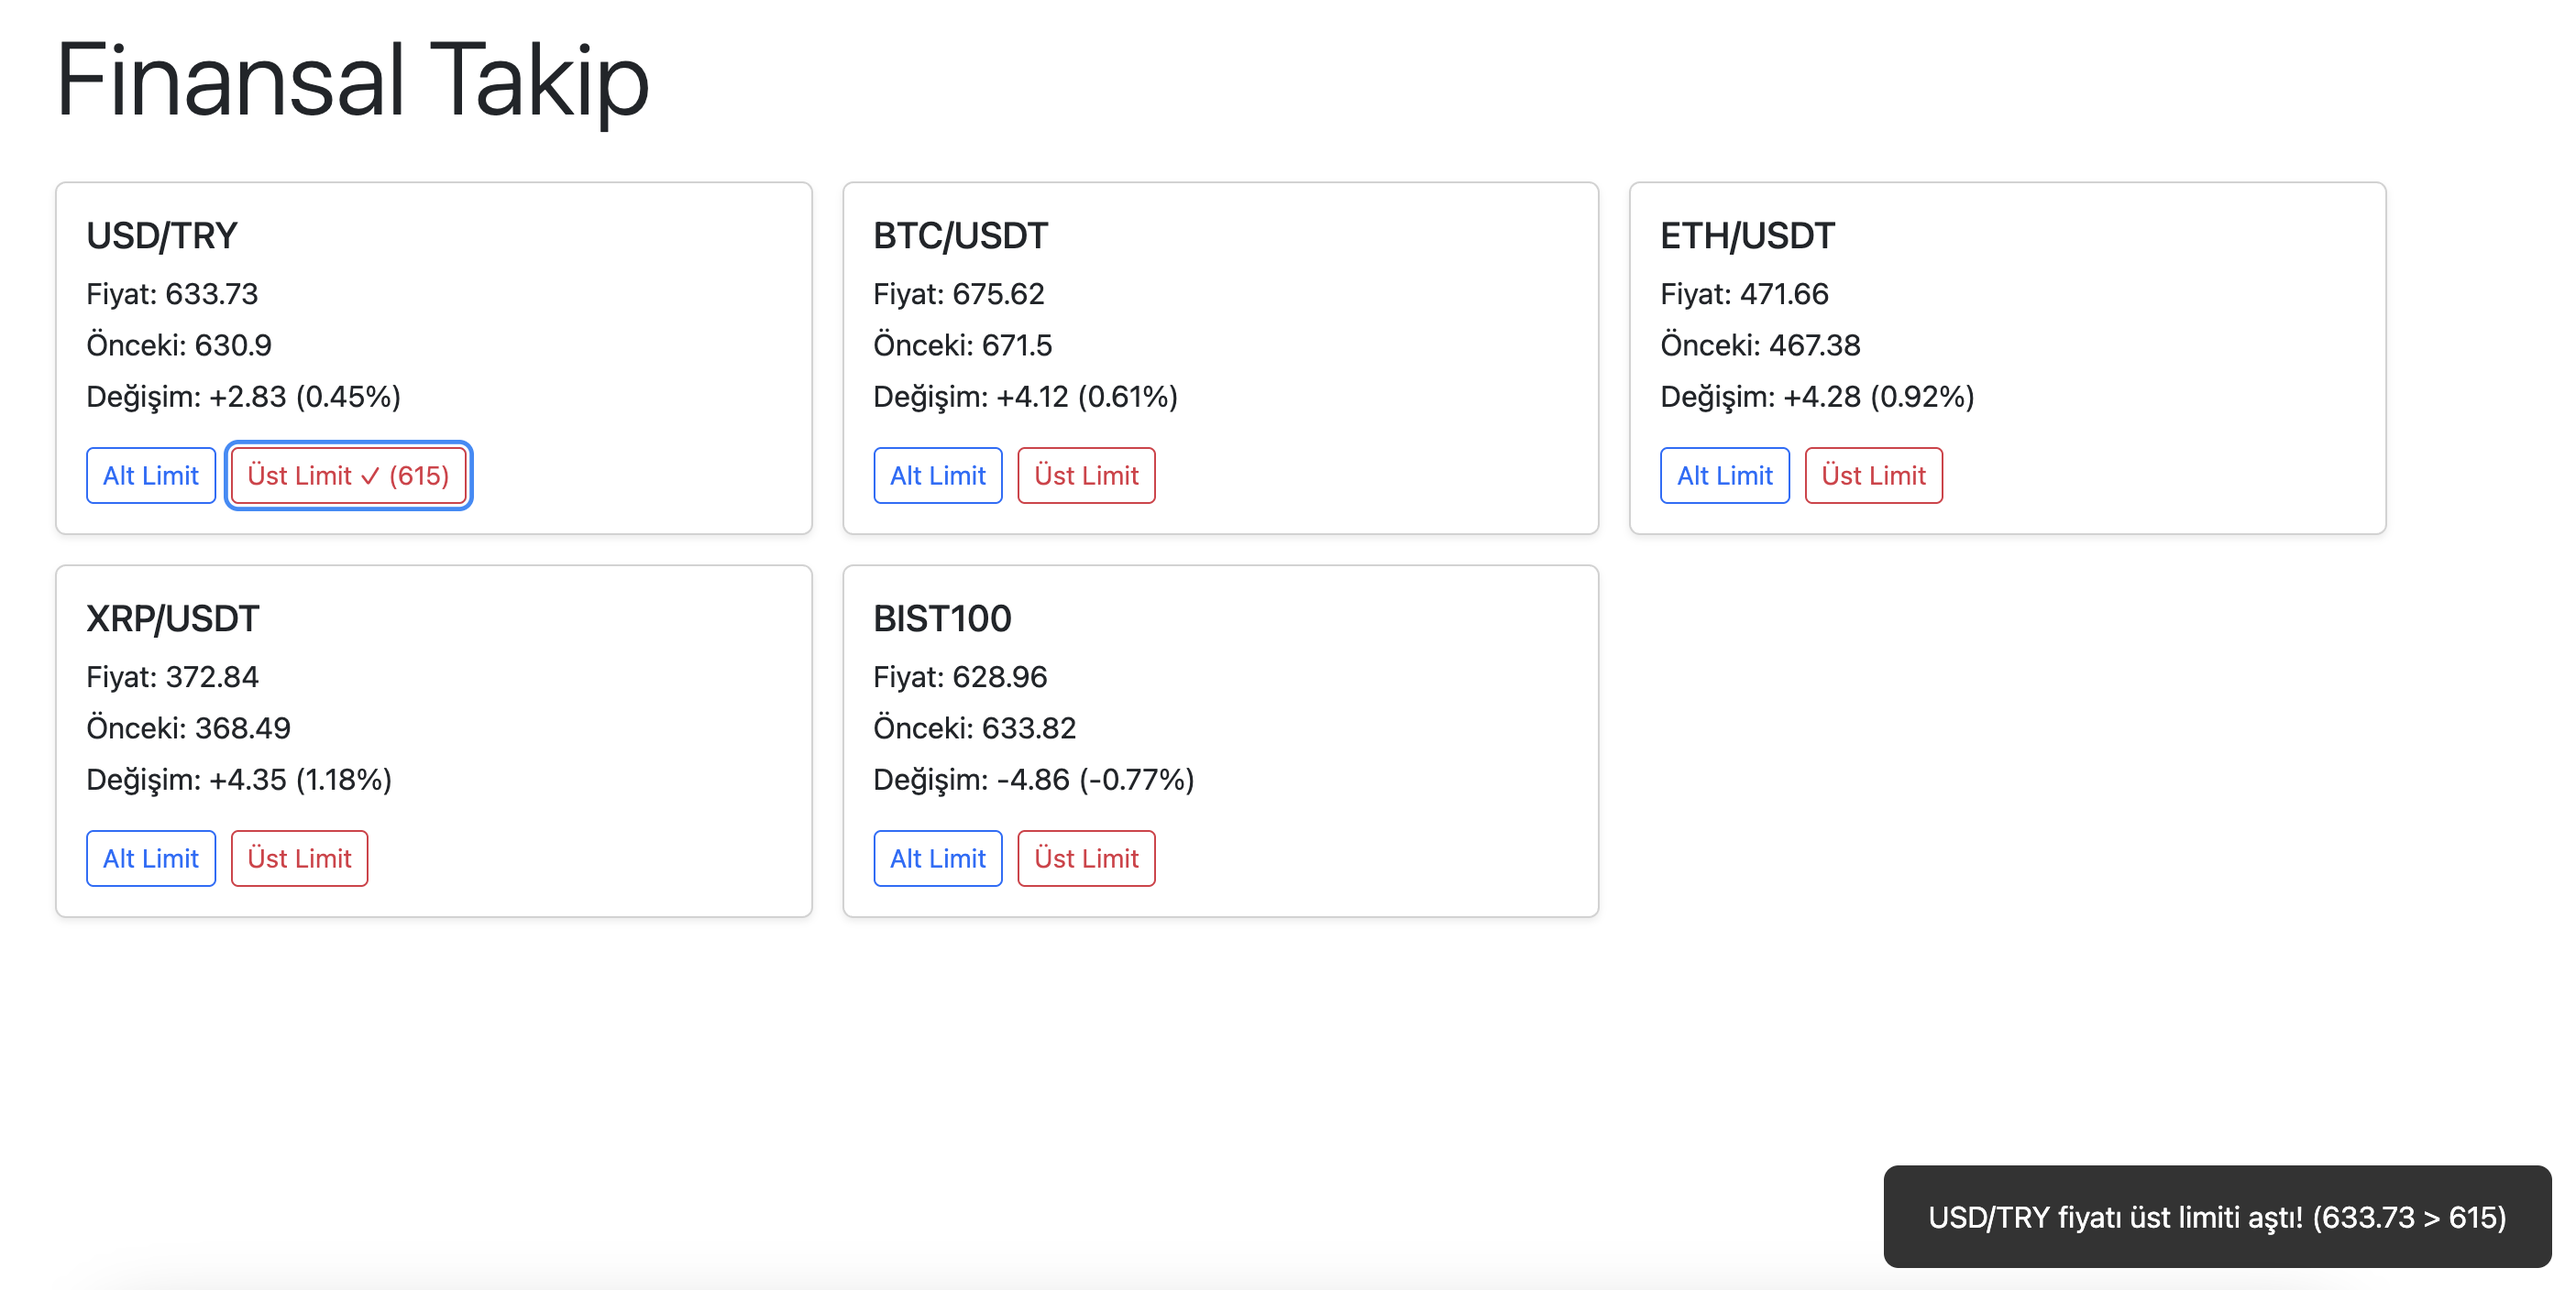
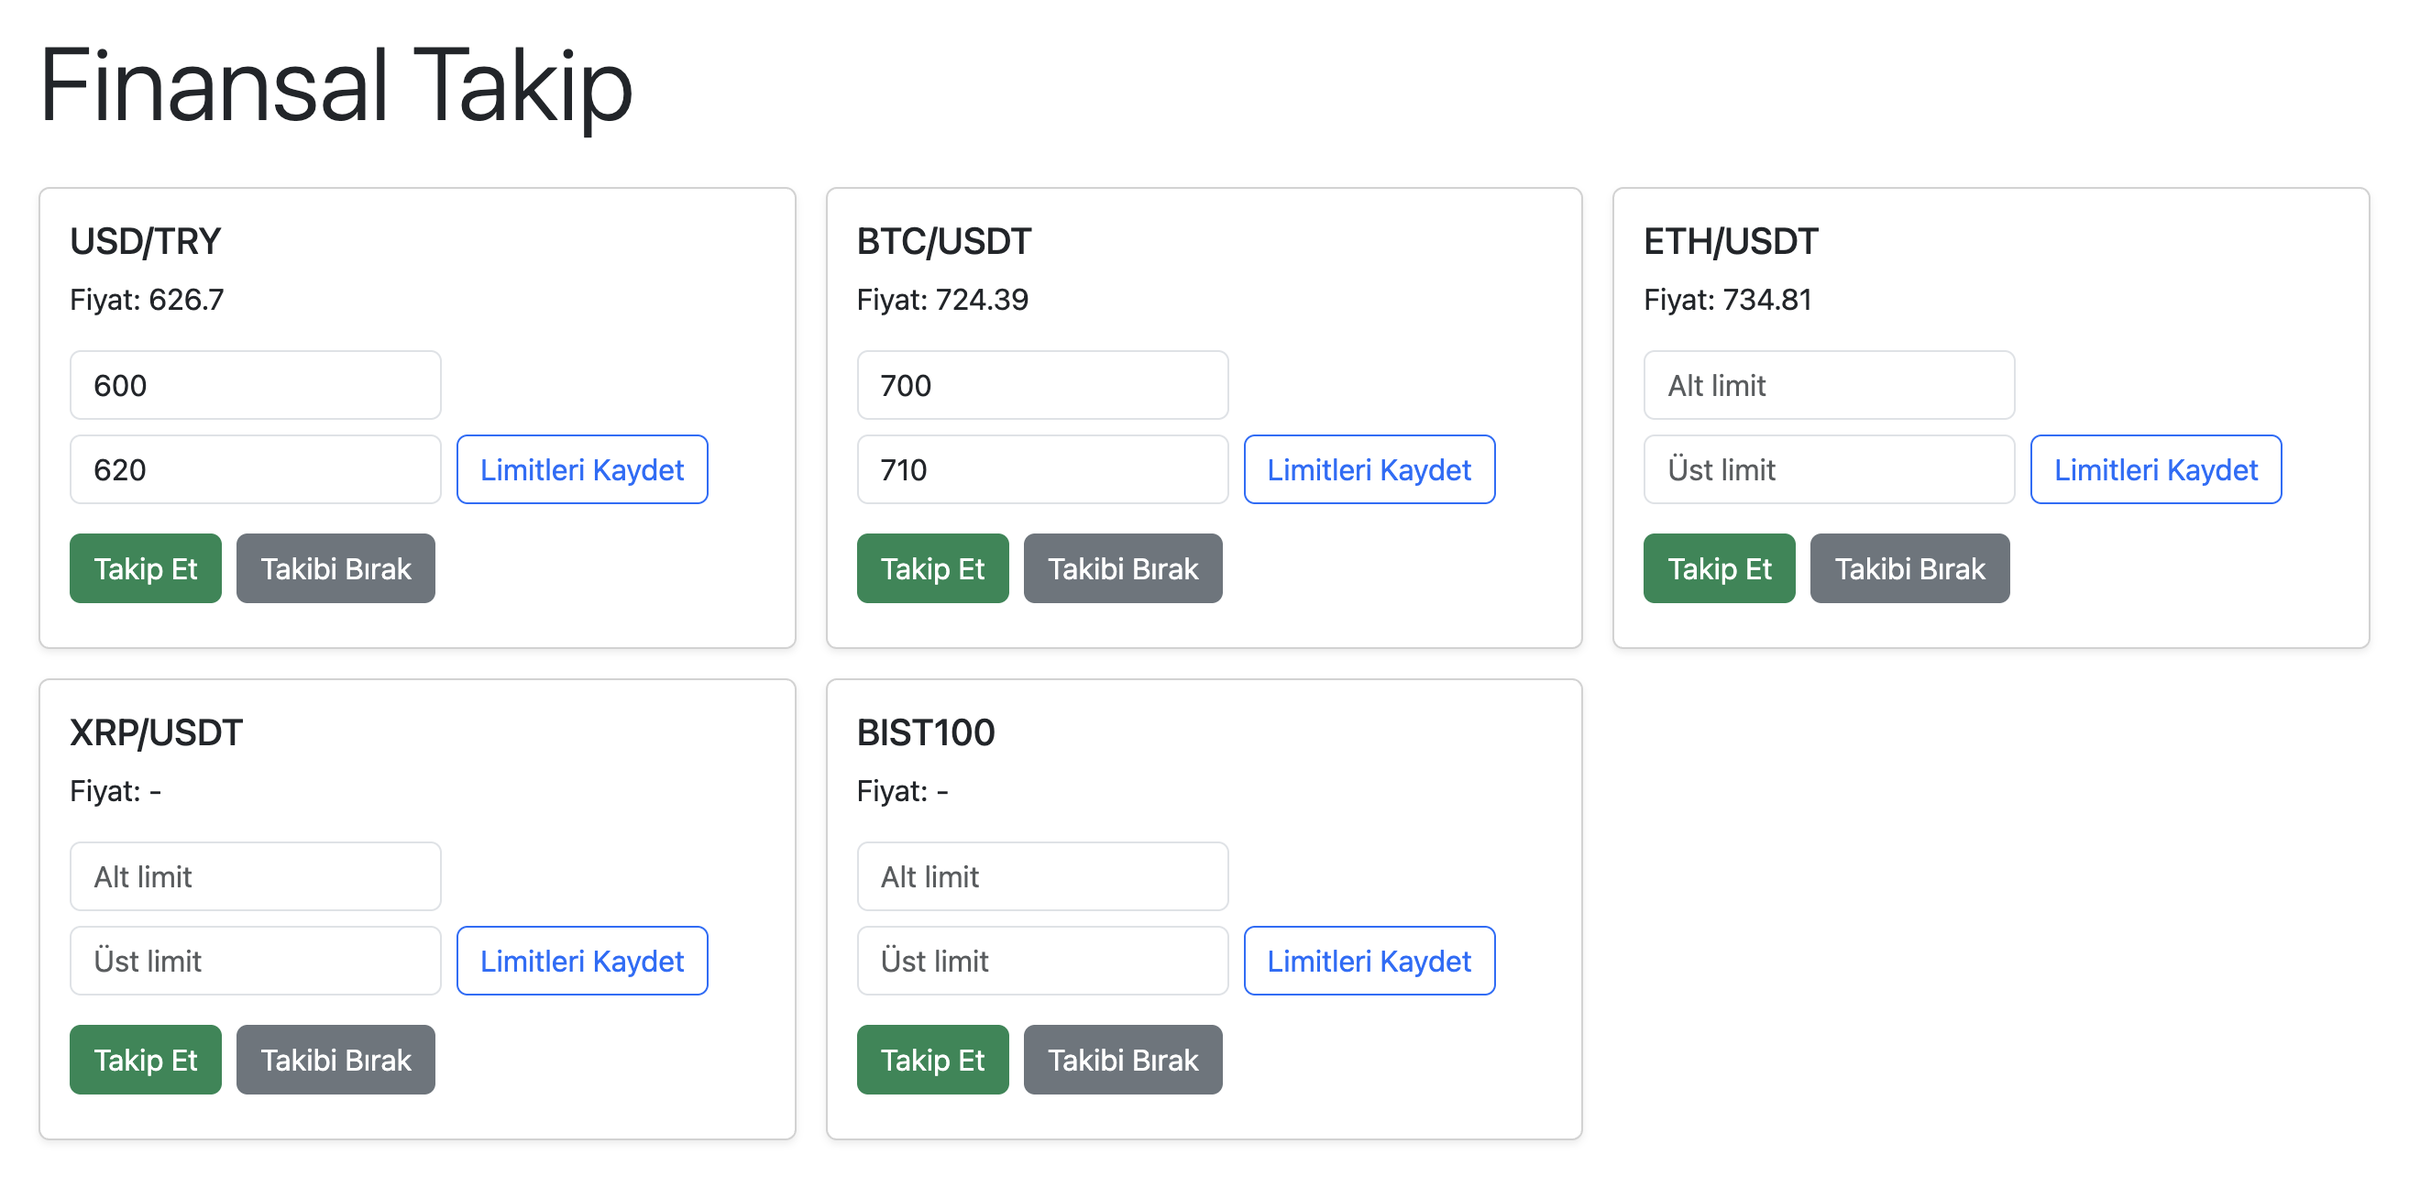
Add Price and PriceHistory models, implement PriceDbContext, and enhance Index page with price tracking features

diff --git a/PriceGenerator.cs b/PriceGenerator.cs
@@ -1,5 +1,7 @@
 using Microsoft.AspNetCore.SignalR;
+using Microsoft.EntityFrameworkCore;
 using StockMarket.Hubs;
+using StockMarket.Models;
 
 namespace StockMarket
 {
@@ -9,24 +11,47 @@ namespace StockMarket
         private readonly Timer _timer;
         private readonly Random _random = new();
         private readonly List<string> _symbols = new() { "USD/TRY", "BTC/USDT", "ETH/USDT", "XRP/USDT", "BIST100" };
-        private readonly Dictionary<string, decimal> _prices = new();
+        private readonly IServiceScopeFactory _scopeFactory;
 
-        public PriceGenerator(IHubContext<PriceHub> hubContext)
+        public PriceGenerator(IHubContext<PriceHub> hubContext, IServiceScopeFactory scopeFactory)
         {
             _hubContext = hubContext;
+            _scopeFactory = scopeFactory;
+            using var scope = _scopeFactory.CreateScope();
+            var db = scope.ServiceProvider.GetRequiredService<PriceDbContext>();
             foreach (var symbol in _symbols)
-                _prices[symbol] = _random.Next(100, 1000);
+            {
+                var price = new Price { Symbol = symbol, LastUpdated = DateTime.Now };
+                price.History.Add(new PriceHistory { Value = _random.Next(100, 1000), Timestamp = DateTime.Now });
+                db.Prices.Add(price);
+            }
+            db.SaveChanges();
             _timer = new Timer(UpdatePrices, null, 0, 2000);
         }
 
         private void UpdatePrices(object? state)
         {
+            using var scope = _scopeFactory.CreateScope();
+            var db = scope.ServiceProvider.GetRequiredService<PriceDbContext>();
             foreach (var symbol in _symbols)
             {
-                var change = (decimal)(_random.NextDouble() - 0.5) * 10;
-                _prices[symbol] += change;
-                // Kullanıcıya özel bildirim
-                _ = PriceHub.SendPriceUpdateToSubscribers(_hubContext, symbol, Math.Round(_prices[symbol], 2));
+                var priceEntity = db.Prices.Include(p => p.History).FirstOrDefault(p => p.Symbol == symbol);
+                if (priceEntity != null)
+                {
+                    var lastValue = priceEntity.History.LastOrDefault()?.Value ?? _random.Next(100, 1000);
+                    var change = (decimal)(_random.NextDouble() - 0.5) * 10;
+                    var newValue = lastValue + change;
+                    var history = new PriceHistory
+                    {
+                        Value = newValue,
+                        Timestamp = DateTime.Now,
+                        Price = priceEntity
+                    };
+                    priceEntity.History.Add(history);
+                    priceEntity.LastUpdated = DateTime.Now;
+                    db.SaveChanges();
+                    _ = PriceHub.SendPriceUpdateToSubscribers(_hubContext, symbol, Math.Round(newValue, 2));
+                }
             }
         }
     }

diff --git a/Program.cs b/Program.cs
@@ -1,12 +1,15 @@
 using StockMarket;
 using StockMarket.Hubs;
+using Microsoft.EntityFrameworkCore;
 
 var builder = WebApplication.CreateBuilder(args);
 
 // Add services to the container.
 builder.Services.AddRazorPages();
 builder.Services.AddSignalR();
-builder.Services.AddSingleton<PriceGenerator>();
+builder.Services.AddDbContext<StockMarket.PriceDbContext>(options =>
+    options.UseInMemoryDatabase("PricesDb"));
+builder.Services.AddScoped<PriceGenerator>();
 
 var app = builder.Build();
 
@@ -29,6 +32,9 @@ app.MapStaticAssets();
 app.MapRazorPages()
    .WithStaticAssets();
 
-app.Services.GetRequiredService<PriceGenerator>();
+using (var scope = app.Services.CreateScope())
+{
+    scope.ServiceProvider.GetRequiredService<PriceGenerator>();
+}
 
 await app.RunAsync();

diff --git a/PriceDbContext.cs b/PriceDbContext.cs
@@ -1,0 +1,12 @@
+using Microsoft.EntityFrameworkCore;
+using StockMarket.Models;
+
+namespace StockMarket
+{
+    public class PriceDbContext : DbContext
+    {
+        public PriceDbContext(DbContextOptions<PriceDbContext> options) : base(options) { }
+        public DbSet<Price> Prices => Set<Price>();
+        public DbSet<PriceHistory> PriceHistories => Set<PriceHistory>();
+    }
+}

diff --git a/Models/PriceHistory.cs b/Models/PriceHistory.cs
@@ -1,0 +1,11 @@
+namespace StockMarket.Models
+{
+    public class PriceHistory
+    {
+        public int Id { get; set; }
+        public decimal Value { get; set; }
+        public DateTime Timestamp { get; set; }
+        public int PriceId { get; set; }
+        public virtual Price? Price { get; set; }
+    }
+}

diff --git a/Models/Price.cs b/Models/Price.cs
@@ -1,0 +1,10 @@
+namespace StockMarket.Models
+{
+    public class Price
+    {
+        public int Id { get; set; }
+        public string Symbol { get; set; } = string.Empty;
+        public DateTime LastUpdated { get; set; }
+        public virtual List<PriceHistory> History { get; set; } = new();
+    }
+}

diff --git a/Pages/Index.cshtml.cs b/Pages/Index.cshtml.cs
@@ -1,4 +1,3 @@
-using Microsoft.AspNetCore.Mvc;
 using Microsoft.AspNetCore.Mvc.RazorPages;
 
 namespace StockMarket.Pages;
